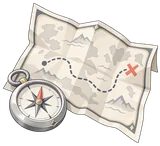
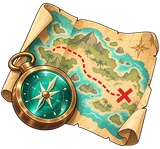
feat(tribute): 收取进贡加金币入账音效（Web Audio 合成）；每日行动图标改为各有主色的二次元风格

diff --git a/src/audio/TributeChime.ts b/src/audio/TributeChime.ts
@@ -1,0 +1,208 @@
+/**
+ * 收取进贡的「金币入账」音效（纯 Web Audio 合成，无音频文件）。
+ *
+ * 三段：
+ *  1. 倾泻：一串金币碰撞声。每枚 = 非谐分音（硬币/小钟的 1 : 2.76 : 5.40 : 8.93）+ 2ms 高通噪声咔嗒，
+ *     间隔由密到疏，音高与声像随机——听起来像一把币落进匣子；枚数随黄金多少增加（6～14 枚）。
+ *  2. 落定：一记低沉的木匣闷响（正弦下滑 150→60Hz）。
+ *  3. 入账：两音明亮钟声（E6 + B6）；本次含宝石或金钥匙时再加一段上行闪光琶音。
+ *
+ * 音量 = 主音量 × 音效音量，任一开关关闭则不发声。AudioContext 在首次播放（点击手势内）时懒创建。
+ */
+import { getPlayerPreferences } from '../preferences/playerPreferences';
+
+export interface TributeChimeHaul {
+  gold: number;
+  souls?: number;
+  glory?: number;
+  gems?: number;
+  goldKeys?: number;
+}
+
+/** 一枚金币碰撞 */
+export interface CoinHit { at: number; freq: number; pan: number; vel: number }
+
+export interface TributeChimePlan {
+  coins: CoinHit[];
+  /** 木匣闷响时刻 */
+  thumpAt: number;
+  /** 入账钟声时刻 */
+  bellAt: number;
+  /** 闪光琶音（宝石/金钥匙）各音时刻与频率 */
+  sparkle: Array<{ at: number; freq: number }>;
+  /** 整段时长（秒） */
+  duration: number;
+}
+
+/** 硬币的非谐分音比与相对强度 */
+const COIN_PARTIALS: ReadonlyArray<readonly [ratio: number, gain: number, decay: number]> = [
+  [1, 1, 0.32],
+  [2.76, 0.55, 0.2],
+  [5.4, 0.3, 0.12],
+  [8.93, 0.16, 0.07],
+];
+
+/** 小型确定性随机（同一次收取听起来一致，也便于测试） */
+function lcg(seed: number): () => number {
+  let s = seed >>> 0 || 1;
+  return () => {
+    s = (Math.imul(s, 1664525) + 1013904223) >>> 0;
+    return s / 0x100000000;
+  };
+}
+
+/** 本次收取对应的发声计划（纯函数） */
+export function tributeChimePlan(haul: TributeChimeHaul, seed = 7): TributeChimePlan {
+  const rnd = lcg(seed);
+  const total = Math.max(0, haul.gold) + Math.max(0, haul.souls ?? 0) * 4 + Math.max(0, haul.glory ?? 0) * 10;
+  // 6 枚起步，按总量对数增长，14 枚封顶
+  const count = Math.max(6, Math.min(14, Math.round(6 + Math.log10(1 + total) * 2)));
+  const coins: CoinHit[] = [];
+  let t = 0;
+  for (let i = 0; i < count; i++) {
+    const p = i / (count - 1);
+    coins.push({
+      at: t,
+      freq: 2150 + rnd() * 1300 - p * 250,
+      pan: (rnd() * 2 - 1) * 0.55,
+      vel: 0.55 + rnd() * 0.35 - p * 0.15,
+    });
+    // 间隔由密到疏：40ms → 110ms，带一点抖动
+    t += 0.04 + p * p * 0.07 + rnd() * 0.02;
+  }
+  const thumpAt = t + 0.02;
+  const bellAt = thumpAt + 0.06;
+  const bonus = (haul.gems ?? 0) > 0 || (haul.goldKeys ?? 0) > 0;
+  const sparkle = bonus
+    ? [1318.5, 1661.2, 1975.5, 2637].map((freq, i) => ({ at: bellAt + 0.18 + i * 0.07, freq }))
+    : [];
+  const last = sparkle.length ? sparkle[sparkle.length - 1]!.at : bellAt;
+  return { coins, thumpAt, bellAt, sparkle, duration: last + 1.2 };
+}
+
+/** 当前应有的输出增益（0 = 静音） */
+export function tributeChimeGain(): number {
+  const p = getPlayerPreferences();
+  if (!p.masterEnabled || !p.soundEffectsEnabled) return 0;
+  return p.masterVolume * p.soundEffectsVolume;
+}
+
+let sharedNoise: AudioBuffer | null = null;
+function noise(ctx: BaseAudioContext): AudioBuffer {
+  if (sharedNoise && sharedNoise.sampleRate === ctx.sampleRate) return sharedNoise;
+  const buf = ctx.createBuffer(1, Math.ceil(ctx.sampleRate * 0.05), ctx.sampleRate);
+  const data = buf.getChannelData(0);
+  const rnd = lcg(99);
+  for (let i = 0; i < data.length; i++) data[i] = rnd() * 2 - 1;
+  sharedNoise = buf;
+  return buf;
+}
+
+function coin(ctx: BaseAudioContext, out: AudioNode, t: number, hit: CoinHit): void {
+  const pan = ctx.createStereoPanner();
+  pan.pan.value = hit.pan;
+  pan.connect(out);
+  for (const [ratio, gain, decay] of COIN_PARTIALS) {
+    const o = ctx.createOscillator();
+    o.type = 'sine';
+    o.frequency.value = hit.freq * ratio;
+    const g = ctx.createGain();
+    const peak = 0.22 * gain * hit.vel;
+    g.gain.setValueAtTime(0.0001, t);
+    g.gain.exponentialRampToValueAtTime(peak, t + 0.002);
+    g.gain.exponentialRampToValueAtTime(0.0001, t + decay);
+    o.connect(g).connect(pan);
+    o.start(t);
+    o.stop(t + decay + 0.02);
+  }
+  // 碰撞瞬间的金属咔嗒
+  const n = ctx.createBufferSource();
+  n.buffer = noise(ctx);
+  const hp = ctx.createBiquadFilter();
+  hp.type = 'highpass';
+  hp.frequency.value = 5000;
+  const ng = ctx.createGain();
+  ng.gain.setValueAtTime(0.12 * hit.vel, t);
+  ng.gain.exponentialRampToValueAtTime(0.0001, t + 0.012);
+  n.connect(hp).connect(ng).connect(pan);
+  n.start(t);
+  n.stop(t + 0.02);
+}
+
+function thump(ctx: BaseAudioContext, out: AudioNode, t: number): void {
+  const o = ctx.createOscillator();
+  o.type = 'sine';
+  o.frequency.setValueAtTime(150, t);
+  o.frequency.exponentialRampToValueAtTime(60, t + 0.12);
+  const g = ctx.createGain();
+  g.gain.setValueAtTime(0.0001, t);
+  g.gain.exponentialRampToValueAtTime(0.35, t + 0.005);
+  g.gain.exponentialRampToValueAtTime(0.0001, t + 0.18);
+  o.connect(g).connect(out);
+  o.start(t);
+  o.stop(t + 0.2);
+}
+
+function bell(ctx: BaseAudioContext, out: AudioNode, t: number, freq: number, level: number, decay: number): void {
+  for (const [ratio, gain] of [[1, 1], [2, 0.35], [3.01, 0.15]] as const) {
+    const o = ctx.createOscillator();
+    o.type = ratio === 1 ? 'triangle' : 'sine';
+    o.frequency.value = freq * ratio;
+    const g = ctx.createGain();
+    g.gain.setValueAtTime(0.0001, t);
+    g.gain.exponentialRampToValueAtTime(level * gain, t + 0.004);
+    g.gain.exponentialRampToValueAtTime(0.0001, t + decay / ratio);
+    o.connect(g).connect(out);
+    o.start(t);
+    o.stop(t + decay + 0.05);
+  }
+}
+
+/** 把计划排进任意 AudioContext（在线播放与离线渲染测试共用） */
+export function scheduleTributeChime(ctx: BaseAudioContext, dest: AudioNode, plan: TributeChimePlan, start: number, gain: number): void {
+  const bus = ctx.createGain();
+  bus.gain.value = gain;
+  // 轻微压缩，防止多枚金币叠加时削顶
+  const comp = ctx.createDynamicsCompressor();
+  comp.threshold.value = -14;
+  comp.ratio.value = 4;
+  bus.connect(comp).connect(dest);
+  for (const hit of plan.coins) coin(ctx, bus, start + hit.at, hit);
+  thump(ctx, bus, start + plan.thumpAt);
+  bell(ctx, bus, start + plan.bellAt, 1318.5, 0.16, 1.1); // E6
+  bell(ctx, bus, start + plan.bellAt + 0.09, 1975.5, 0.12, 1.0); // B6
+  for (const s of plan.sparkle) bell(ctx, bus, start + s.at, s.freq, 0.07, 0.5);
+}
+
+let ctx: AudioContext | null = null;
+
+/** 取得（必要时创建并唤醒）共享 AudioContext；失败返回 null */
+function context(): AudioContext | null {
+  const Ctor = globalThis.AudioContext ?? (globalThis as { webkitAudioContext?: typeof AudioContext }).webkitAudioContext;
+  if (!Ctor) return null;
+  try {
+    ctx ??= new Ctor();
+    if (ctx.state === 'suspended') void ctx.resume().catch(() => undefined);
+    return ctx;
+  } catch {
+    return null;
+  }
+}
+
+/** 在点击手势内同步调用：先把 AudioContext 建好/唤醒，等网关返回后再出声也不会被自动播放策略拦下 */
+export function primeTributeChime(): void {
+  if (tributeChimeGain() > 0) context();
+}
+
+/** 播放一次金币入账音效；静音或浏览器不支持 Web Audio 时什么都不做 */
+export function playTributeChime(haul: TributeChimeHaul): void {
+  const gain = tributeChimeGain();
+  if (gain <= 0) return;
+  const c = context();
+  if (!c) return;
+  try {
+    scheduleTributeChime(c, c.destination, tributeChimePlan(haul, Math.floor(Date.now() / 1000)), c.currentTime + 0.02, gain);
+  } catch {
+    // 音效失败不影响收取
+  }
+}

diff --git a/tests/unit/tributeChime.test.ts b/tests/unit/tributeChime.test.ts
@@ -1,0 +1,52 @@
+import { afterEach, describe, expect, it } from 'vitest';
+import { tributeChimeGain, tributeChimePlan } from '../../src/audio/TributeChime';
+import { DEFAULT_PLAYER_PREFERENCES, setPlayerPreferences } from '../../src/preferences/playerPreferences';
+
+afterEach(() => { setPlayerPreferences({ ...DEFAULT_PLAYER_PREFERENCES }); });
+
+describe('收取进贡 · 金币入账音效', () => {
+  it('金币枚数随收取量增加，6～14 枚封顶', () => {
+    const small = tributeChimePlan({ gold: 10 });
+    const mid = tributeChimePlan({ gold: 2000, souls: 200, glory: 38 });
+    const huge = tributeChimePlan({ gold: 10_000_000 });
+    expect(small.coins.length).toBeGreaterThanOrEqual(6);
+    expect(mid.coins.length).toBeGreaterThan(small.coins.length);
+    expect(huge.coins.length).toBe(14);
+    expect(tributeChimePlan({ gold: 0 }).coins.length).toBe(6);
+  });
+
+  it('倾泻由密到疏，之后依次是闷响、钟声', () => {
+    const plan = tributeChimePlan({ gold: 5000 });
+    const gaps = plan.coins.slice(1).map((c, i) => c.at - plan.coins[i]!.at);
+    expect(gaps.every((g) => g > 0)).toBe(true);
+    expect(gaps[gaps.length - 1]!).toBeGreaterThan(gaps[0]!);
+    expect(plan.thumpAt).toBeGreaterThan(plan.coins[plan.coins.length - 1]!.at);
+    expect(plan.bellAt).toBeGreaterThan(plan.thumpAt);
+    expect(plan.duration).toBeGreaterThan(plan.bellAt);
+    expect(plan.duration).toBeLessThan(3);
+    for (const c of plan.coins) {
+      expect(c.freq).toBeGreaterThan(1500);
+      expect(Math.abs(c.pan)).toBeLessThanOrEqual(0.55);
+      expect(c.vel).toBeGreaterThan(0);
+    }
+  });
+
+  it('只有收到宝石或金钥匙才加闪光琶音', () => {
+    expect(tributeChimePlan({ gold: 500 }).sparkle).toEqual([]);
+    expect(tributeChimePlan({ gold: 500, gems: 3 }).sparkle.length).toBe(4);
+    expect(tributeChimePlan({ gold: 500, goldKeys: 1 }).sparkle.length).toBe(4);
+  });
+
+  it('同一种子结果一致', () => {
+    expect(tributeChimePlan({ gold: 1234 }, 42)).toEqual(tributeChimePlan({ gold: 1234 }, 42));
+  });
+
+  it('音量 = 主音量 × 音效音量；任一开关关闭即静音', () => {
+    setPlayerPreferences({ masterVolume: 0.5, soundEffectsVolume: 0.6 });
+    expect(tributeChimeGain()).toBeCloseTo(0.3);
+    setPlayerPreferences({ soundEffectsEnabled: false });
+    expect(tributeChimeGain()).toBe(0);
+    setPlayerPreferences({ soundEffectsEnabled: true, masterEnabled: false });
+    expect(tributeChimeGain()).toBe(0);
+  });
+});

diff --git a/src/meta/screens/mapScreen.ts b/src/meta/screens/mapScreen.ts
@@ -32,6 +32,7 @@ import { cssUrlVar, dailyArt, kingdomArt } from '../shell/artAssets';
 import { BANNER_ART_CSS, bannerArtHtml, bannerBoostChips } from '../shell/bannerArt';
 import { bannerUnlocked } from '../systems/banners';
 import { prefersReducedMotion } from '../../preferences/playerPreferences';
+import { playTributeChime, primeTributeChime } from '../../audio/TributeChime';
 import { ART, KINGDOM_VIEWS, kingdomViewOf, type KingdomView } from './mapData';
 import { MapFog, fogSeenLevel, markFogSeen, type FogHole } from './mapFog';
 import {
@@ -1608,6 +1609,7 @@ export class MapScreen implements Screen {
     const btn = $('#tributeConfirm') as HTMLButtonElement;
     if (btn.disabled || btn.classList.contains('is-done')) return;
     btn.disabled = true;
+    primeTributeChime();
     const { result } = await ctx.gateway.collectAllTribute(Date.now());
     if (!result.ready) {
       toast('尚无可领取进贡。');
@@ -1624,6 +1626,7 @@ export class MapScreen implements Screen {
     ].filter(Boolean).join('，');
     this.renderTreasury(result, true);
     $('#treasurySheet').classList.add('is-collected');
+    playTributeChime(t);
     toast(`已收取 ${result.readyCount} 国进贡：${summary}`);
     this.afterMutation(ctx);
     this.collectTimer = window.setTimeout(() => this.closeTreasury(), 1800);
